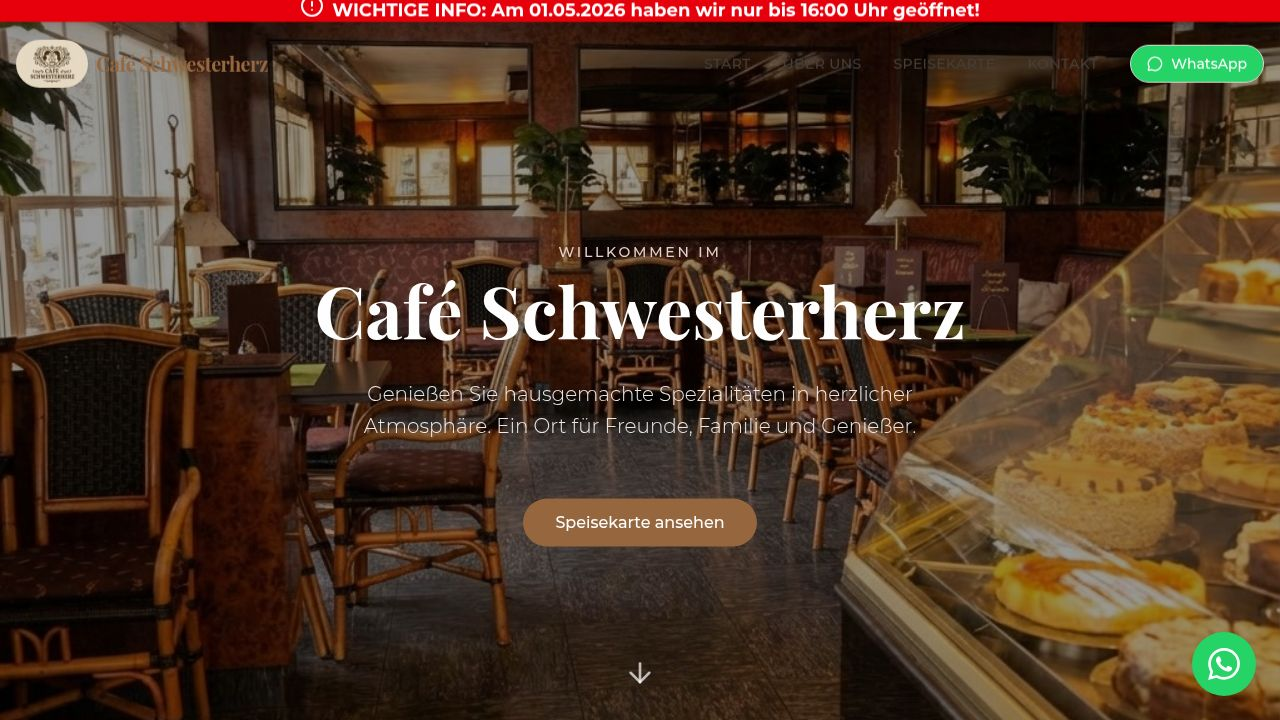
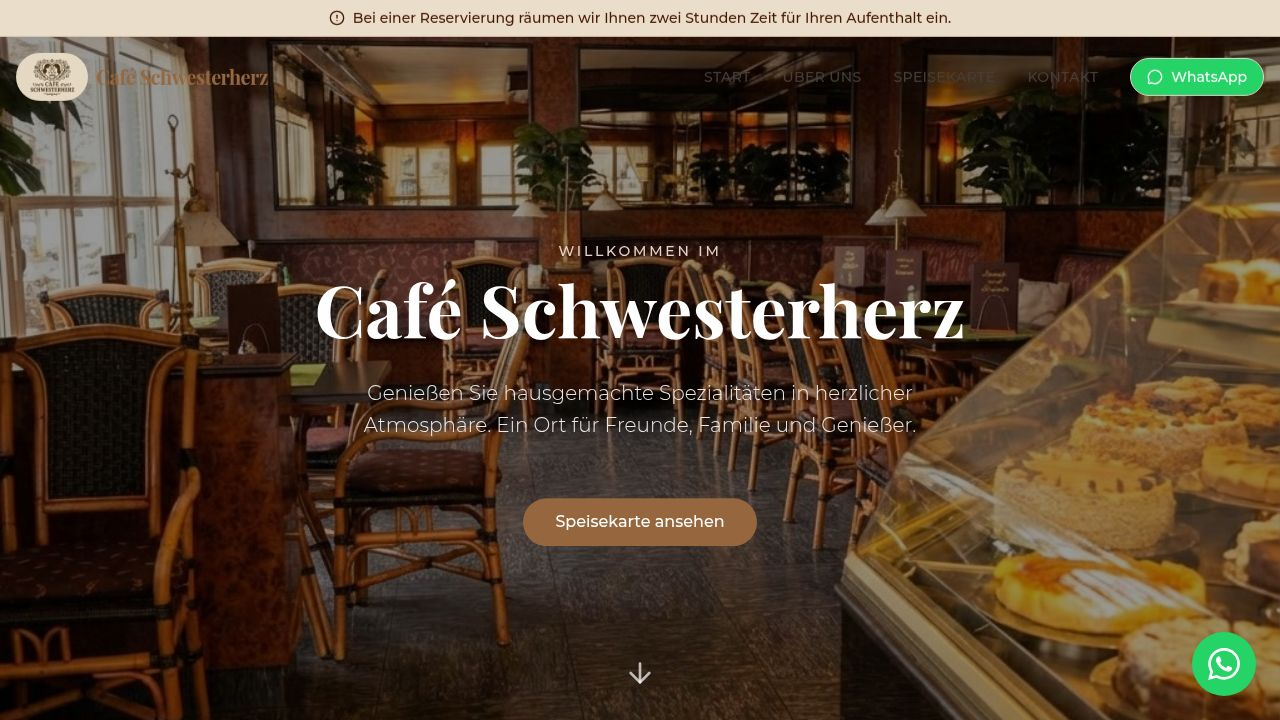
Add a permanent notice about reservation time limits
Adds a persistent reservation time limit notice to the website's navigation bar.

Replit-Commit-Author: Agent
Replit-Commit-Session-Id: 5ebfb6c6-40cb-4a05-a896-d1445479500f
Replit-Commit-Checkpoint-Type: full_checkpoint
Replit-Commit-Event-Id: 4797ec03-ea97-4957-aad3-73a6b4aba533
Replit-Commit-Screenshot-Url: https://storage.googleapis.com/screenshot-production-us-central1/fc95063c-41a9-4444-9cad-c8e9d1c5a6ea/5ebfb6c6-40cb-4a05-a896-d1445479500f/2BmLWmD
Replit-Helium-Checkpoint-Created: true

diff --git a/client/src/components/layout/navbar.tsx b/client/src/components/layout/navbar.tsx
@@ -46,13 +46,19 @@ export function Navbar() {
 
   return (
     <motion.header
-      className={`fixed top-0 left-0 right-0 z-50 transition-all duration-300 ${
-        isScrolled ? "bg-white/90 backdrop-blur-md shadow-sm" : "bg-transparent"
+      className={`fixed top-0 left-0 right-0 z-50 transition-all duration-300 flex flex-col ${
+        isScrolled ? "bg-white/90 backdrop-blur-md shadow-sm" : "bg-white/80 md:bg-transparent"
       }`}
       initial={{ y: -100 }}
       animate={{ y: 0 }}
       transition={{ duration: 0.5 }}
     >
+      {/* Dauerhafter Reservierungshinweis */}
+      <div className="bg-[#EADDCA] text-amber-950 px-4 py-2 text-center text-xs md:text-sm font-medium flex items-center justify-center gap-2 border-b border-amber-900/10">
+        <AlertCircle className="h-4 w-4 shrink-0" />
+        <span>Bei einer Reservierung räumen wir Ihnen zwei Stunden Zeit für Ihren Aufenthalt ein.</span>
+      </div>
+
       <AnimatePresence mode="popLayout">
         {noticeType === 'may1' && (
           <motion.div 